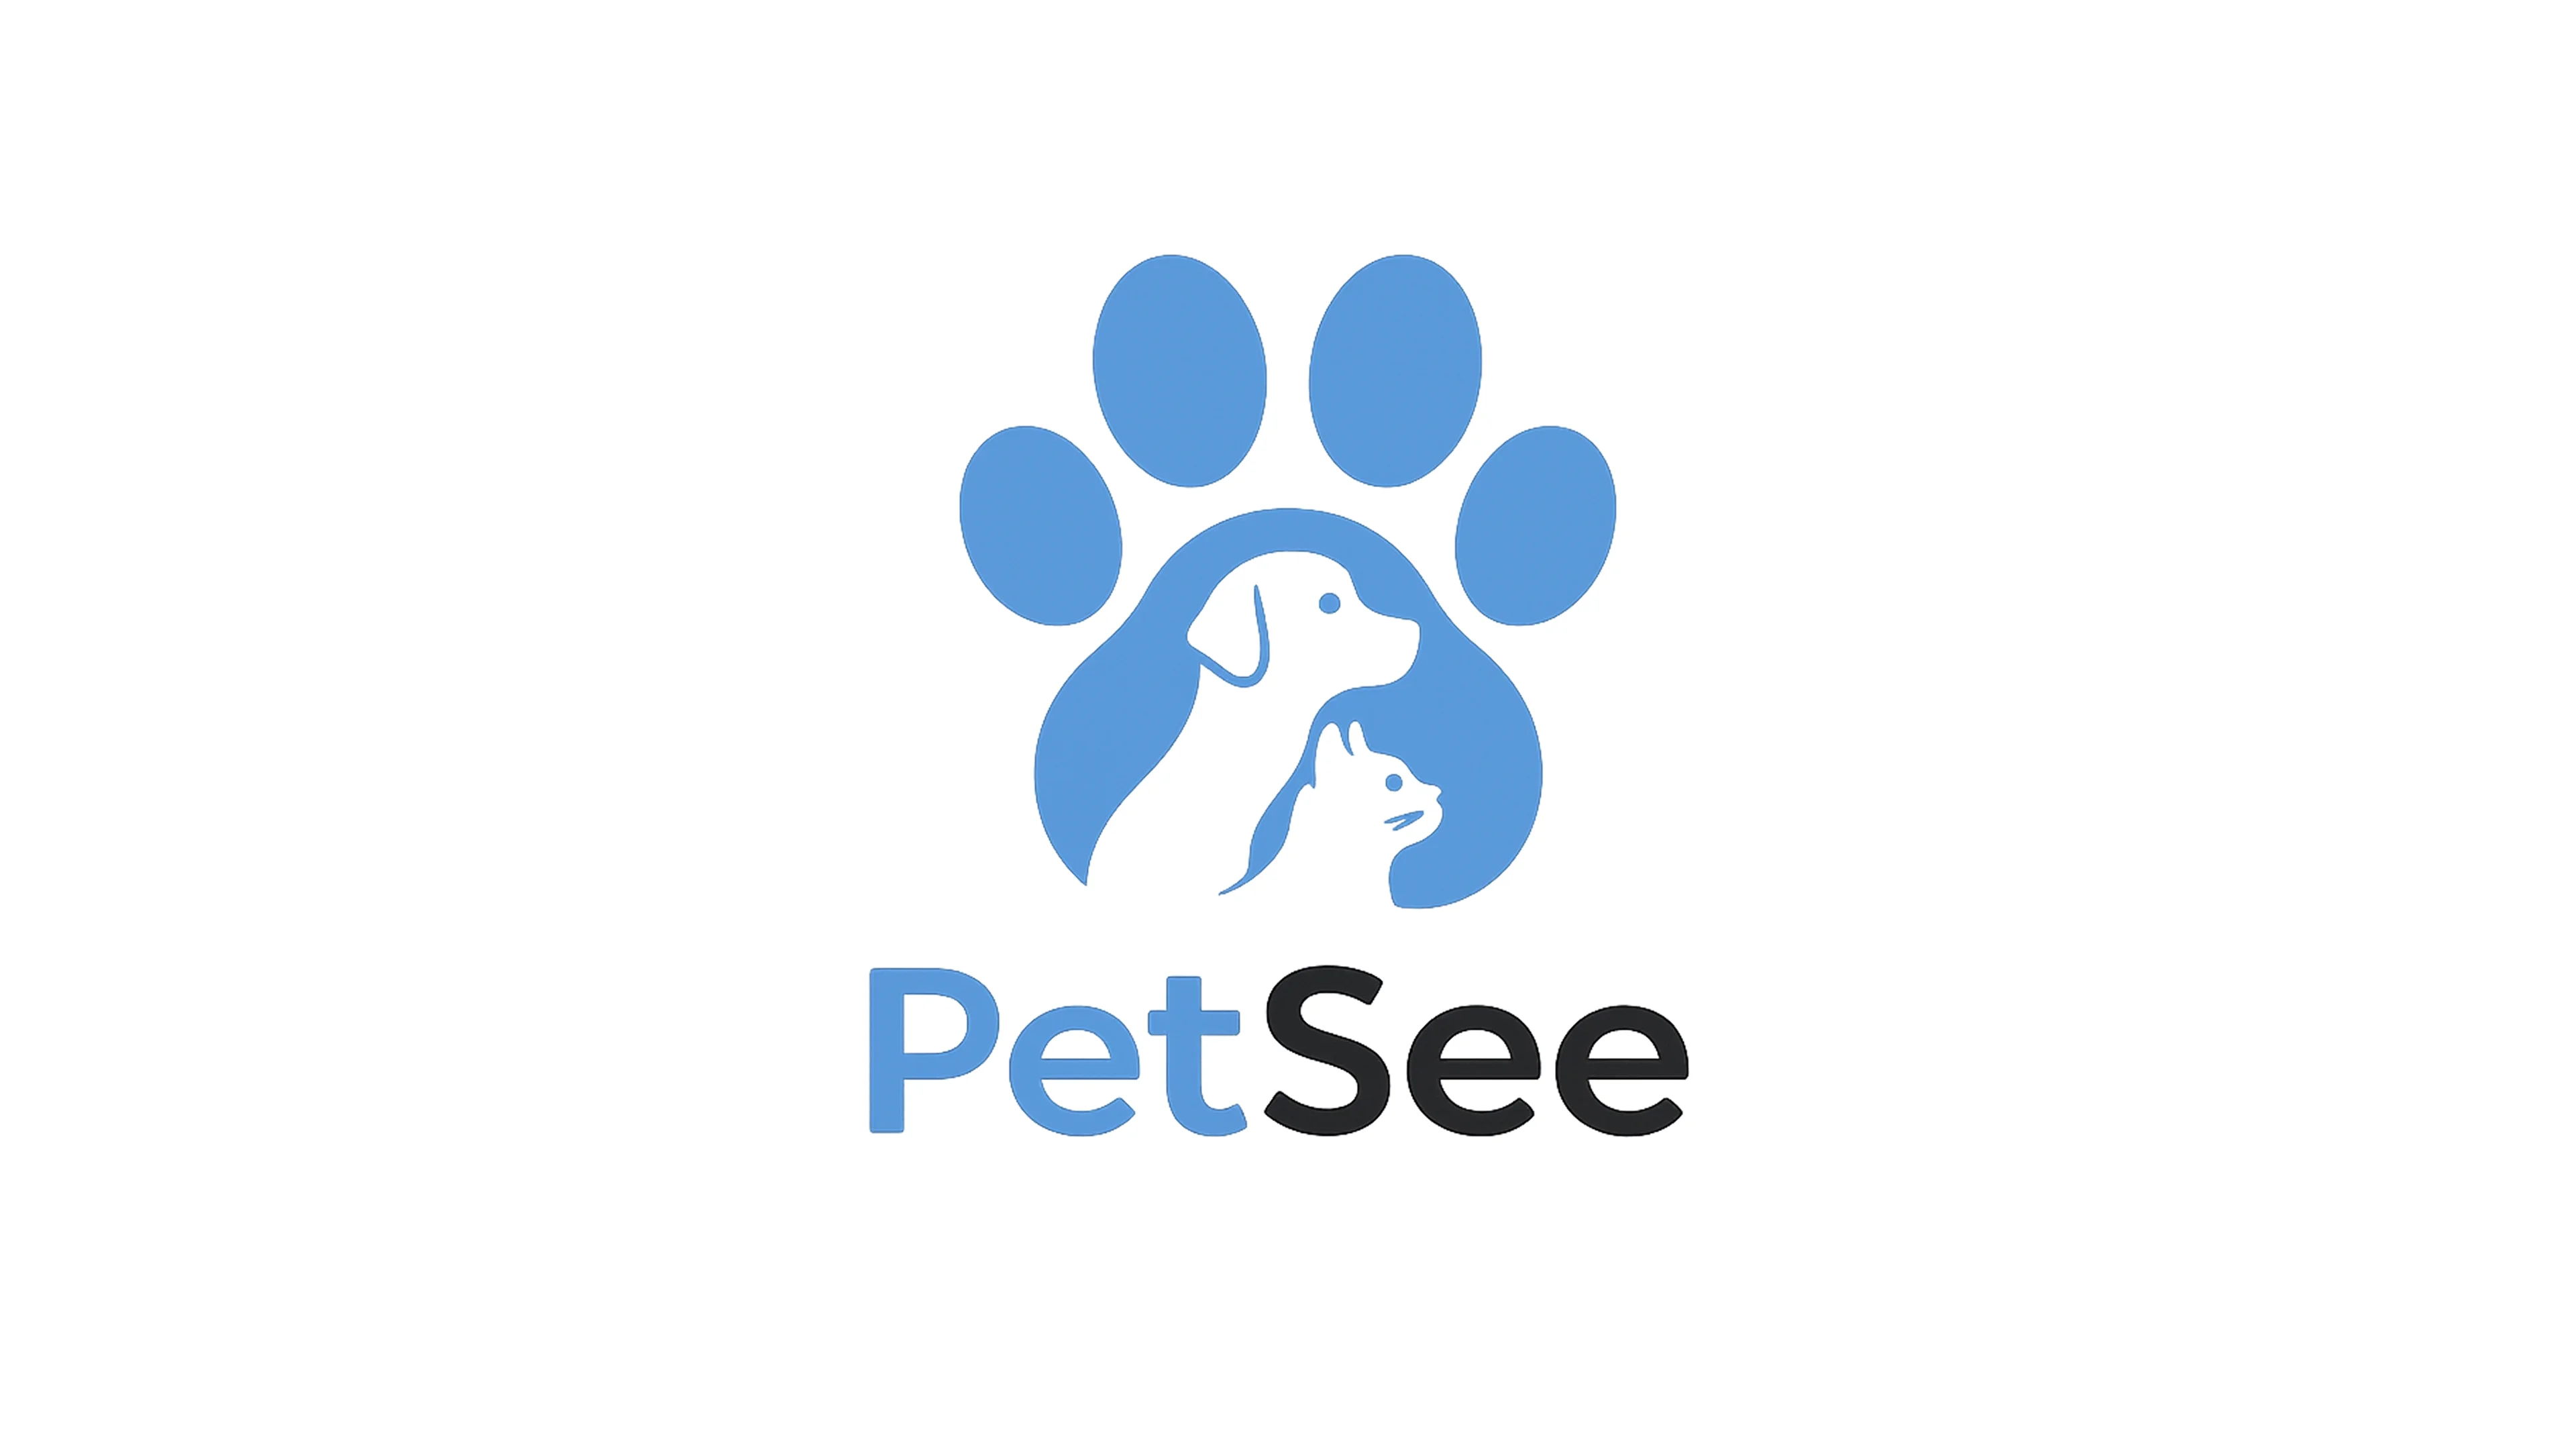
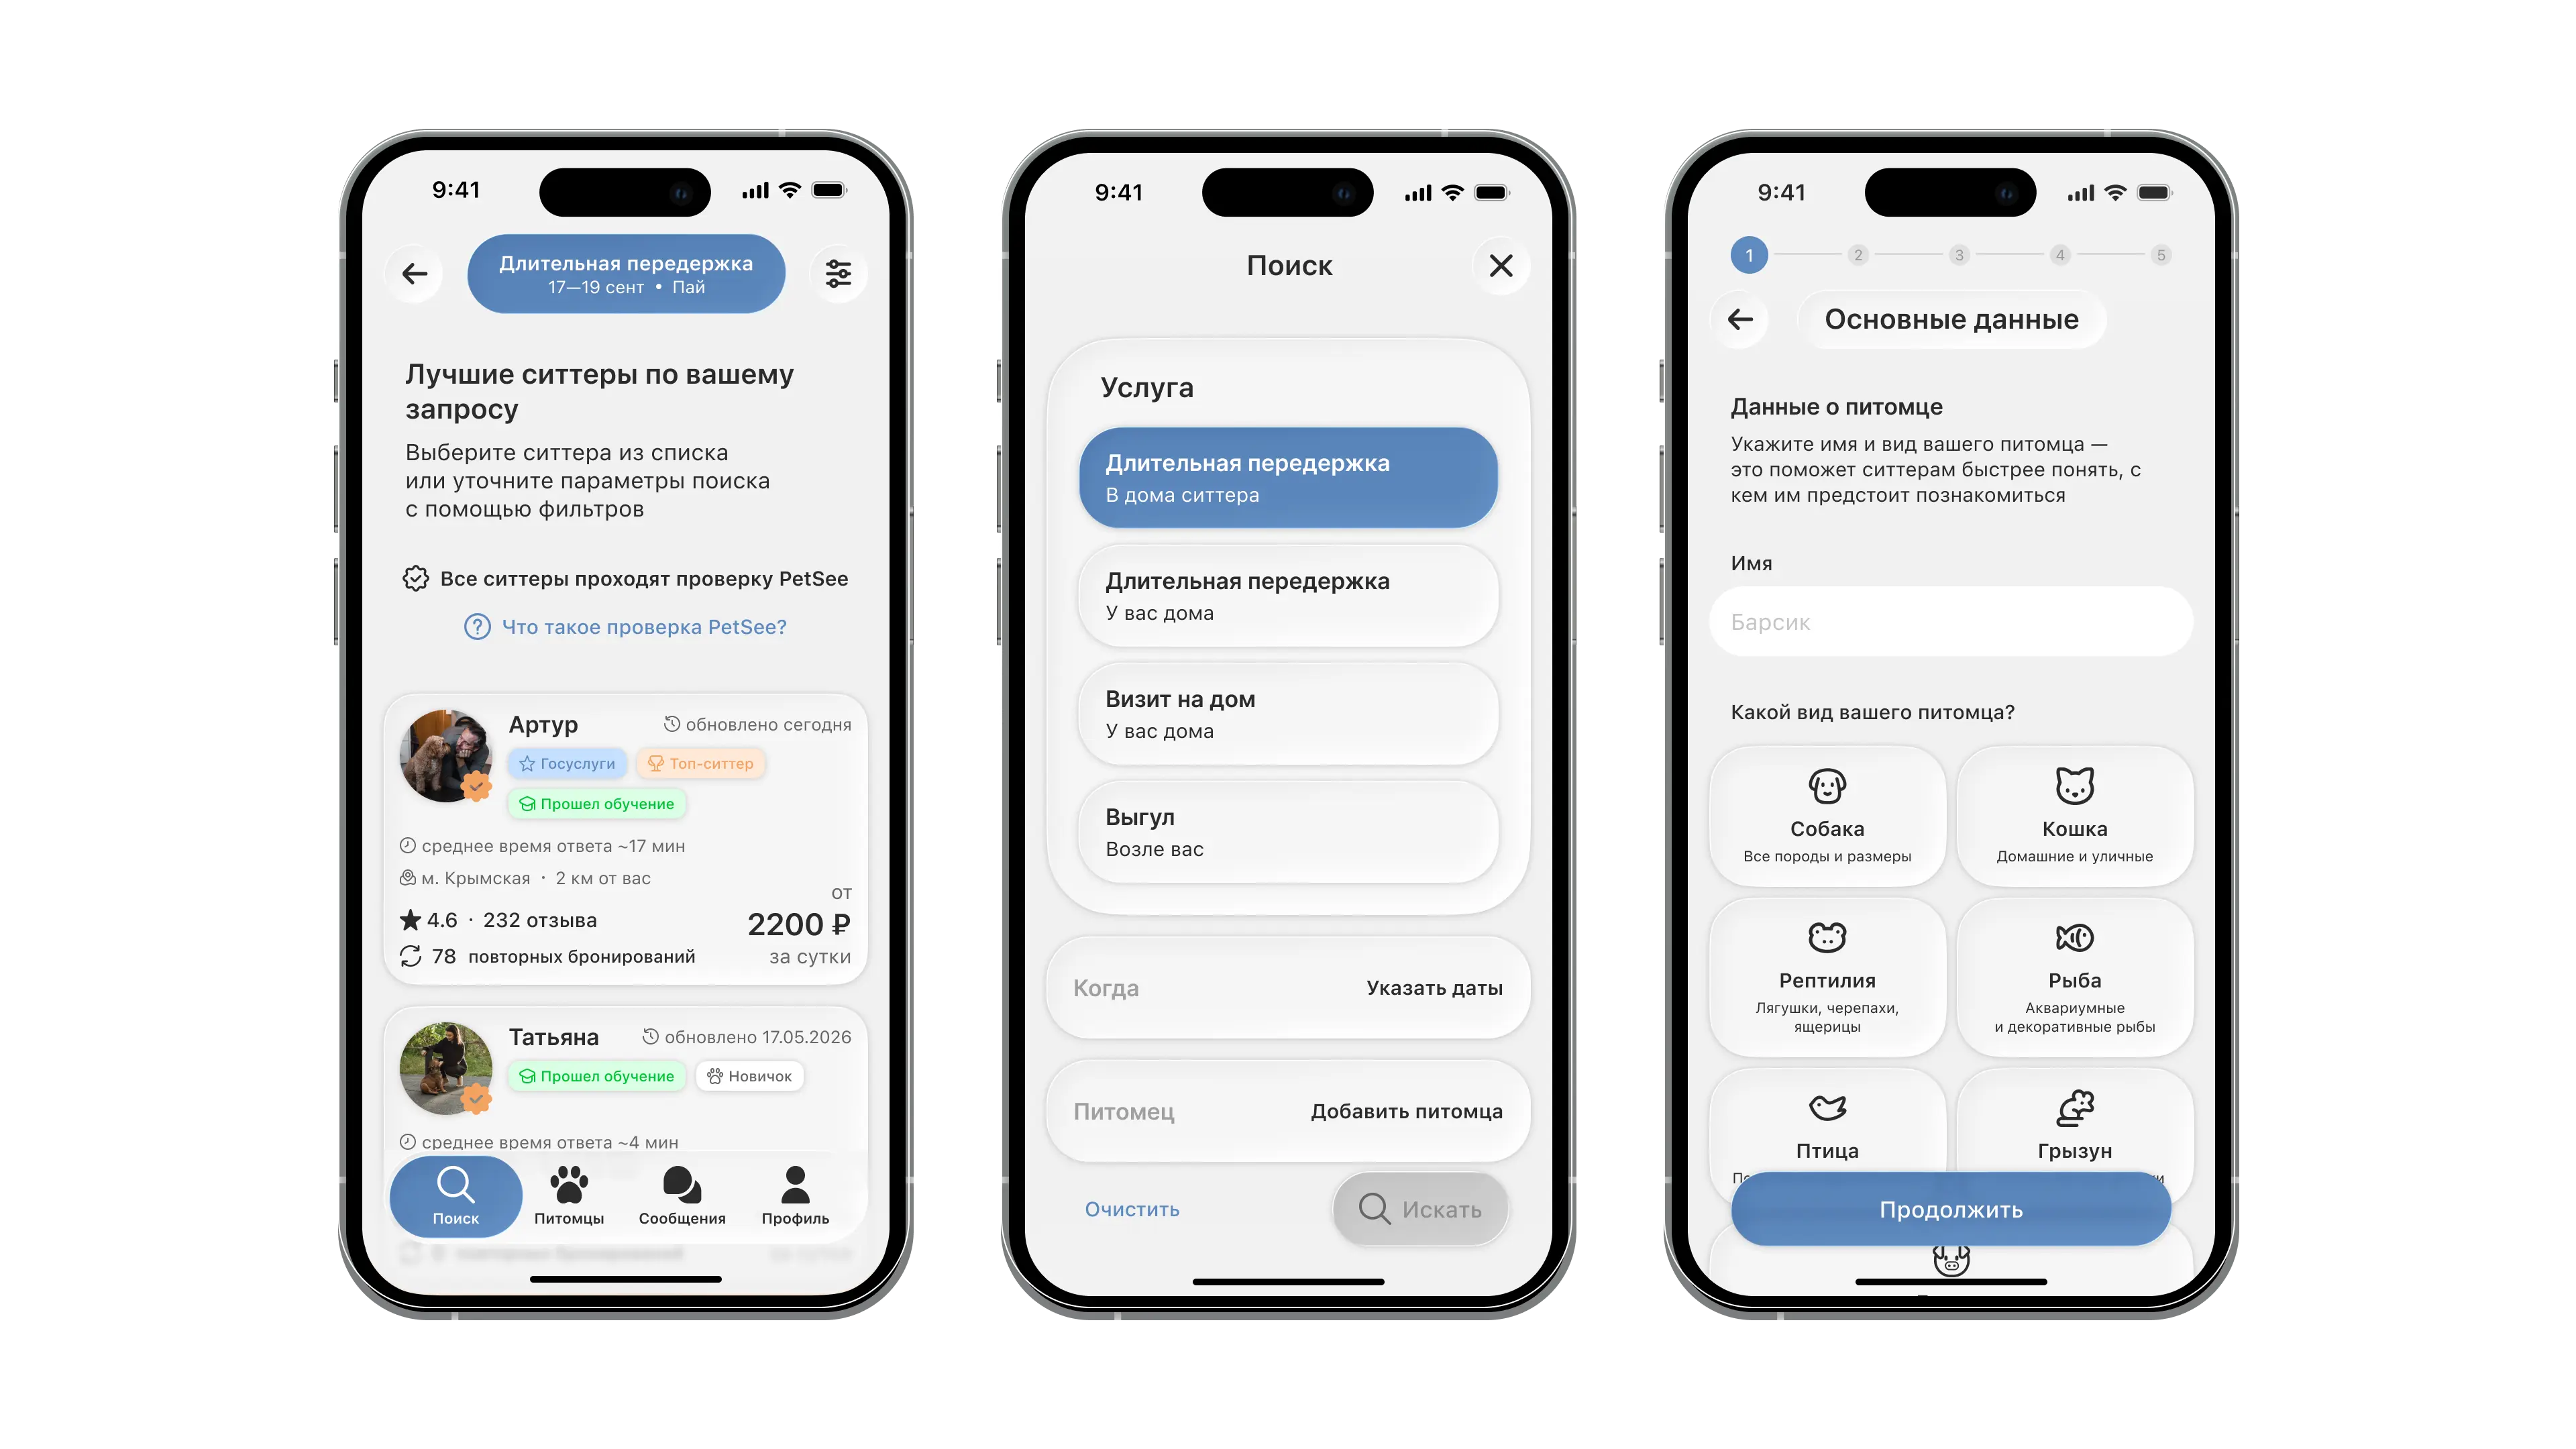
v38

diff --git a/index.html b/index.html
@@ -60,9 +60,13 @@
           <p>Три кейса из текущего места работы. Веду продукты от формирования задачи до разработки, балансирую между пользователем и бизнес-целями, параллельно выстроил процесс отдела.</p>
           <a href="./cases/op/index.html" class="btn-outline btn--primary-light">Смотреть кейс &rarr;</a>
         </div>
-        <a href="./cases/op/index.html" class="case-image" tabindex="-1" aria-hidden="true">
-          <img src="./images/adminpanelcover.webp" alt="" style="width:100%;height:100%;object-fit:cover;display:block;">
-        </a>
+        <div class="case-image">
+          <div class="before-after" style="height:100%;margin:0;border-radius:0;">
+            <div class="ba-before"><img src="./images/adminpaneldesigndecisionbefore2.2.webp" style="width:100%;height:100%;object-fit:cover;object-position:top center;display:block;"></div>
+            <div class="ba-after"><img src="./images/adminpaneldesigndecisionafter2.2.webp" style="width:100%;height:100%;object-fit:cover;object-position:top center;display:block;"></div>
+            <div class="ba-divider"><div class="ba-handle" aria-label="Перетащите для сравнения"><svg width="18" height="18" viewBox="0 0 18 18" fill="none" stroke-width="1.5" stroke-linecap="round" stroke-linejoin="round"><path d="M6 4L2 9L6 14" stroke="rgba(220,38,38,0.75)"/><path d="M12 4L16 9L12 14" stroke="rgba(22,163,74,0.75)"/></svg></div></div>
+          </div>
+        </div>
       </article>
 
       <article class="case">
@@ -74,8 +78,8 @@
           <p>Маркетплейс для временной передержки домашних животных. Соединяет владельцев питомцев с людьми, которые готовы за ними присмотреть.</p>
           <a href="./cases/petsee/index.html" class="btn-outline btn--primary-light">Смотреть кейс &rarr;</a>
         </div>
-        <a href="./cases/petsee/index.html" class="case-image" tabindex="-1" aria-hidden="true">
-          <img src="./images/maincover.webp" alt="" style="width:100%;height:100%;object-fit:cover;display:block;">
+        <a href="./cases/petsee/index.html" class="case-image" tabindex="-1" aria-hidden="true" style="background:none;border:none;aspect-ratio:unset;height:auto;">
+          <img src="./images/maincover.webp" alt="" style="width:100%;height:auto;display:block;">
         </a>
       </article>
 
@@ -88,8 +92,8 @@
           <p>Концептуальная фича для Яндекс Путешествий. Сервис хорошо помогает перед поездкой, но не встречает после. Travel Summary это персонализированный итог, который появляется по возвращении.</p>
           <a href="./cases/travel-summary/index.html" class="btn-outline btn--primary-light">Смотреть кейс &rarr;</a>
         </div>
-        <a href="./cases/travel-summary/index.html" class="case-image" tabindex="-1" aria-hidden="true">
-          <img src="./images/travelsummarycover.webp" alt="" style="width:100%;height:100%;object-fit:cover;display:block;">
+        <a href="./cases/travel-summary/index.html" class="case-image" tabindex="-1" aria-hidden="true" style="background:none;border:none;aspect-ratio:unset;height:auto;">
+          <img src="./images/travelsummarycover.webp" alt="" style="width:100%;height:auto;display:block;">
         </a>
       </article>
 
@@ -102,8 +106,8 @@
           <p>Исследовали информационную перегрузку в популярных мессенджерах в рамках магистерской диссертации. Спроектировали четыре функции и проверили их в немодерируемом тестировании: 52 сессии, success rate 78.8%.</p>
           <a href="./cases/messenger/index.html" class="btn-outline btn--primary-light">Смотреть кейс &rarr;</a>
         </div>
-        <a href="./cases/messenger/index.html" class="case-image" tabindex="-1" aria-hidden="true">
-          <img src="./images/messengercover.webp" alt="" style="width:100%;height:100%;object-fit:cover;display:block;">
+        <a href="./cases/messenger/index.html" class="case-image" tabindex="-1" aria-hidden="true" style="aspect-ratio:unset;height:auto;">
+          <img src="./images/messengerfeature1.3.webp" alt="" style="width:100%;height:auto;display:block;">
         </a>
       </article>
 
@@ -119,5 +123,34 @@
   <script src="https://cdnjs.cloudflare.com/ajax/libs/aos/2.3.4/aos.min.js"></script>
   <script>AOS.init({ duration: 600, easing: 'ease', once: true, offset: 0, startEvent: 'DOMContentLoaded' });</script>
   <script src="./scroll.js"></script>
+  <script>
+    (function () {
+      document.querySelectorAll('.before-after:not(.before-after--vertical)').forEach(function (ba) {
+        var after = ba.querySelector('.ba-after');
+        var divider = ba.querySelector('.ba-divider');
+        var dragging = false;
+        function setPos(pct) {
+          pct = Math.max(0, Math.min(100, pct));
+          after.style.clipPath = 'inset(0 0 0 ' + pct + '%)';
+          divider.style.left = pct + '%';
+        }
+        setPos(50);
+        ba.addEventListener('mousedown', function (e) { dragging = true; e.preventDefault(); });
+        document.addEventListener('mouseup', function () { dragging = false; });
+        document.addEventListener('mousemove', function (e) {
+          if (!dragging) return;
+          var rect = ba.getBoundingClientRect();
+          setPos((e.clientX - rect.left) / rect.width * 100);
+        });
+        ba.addEventListener('touchstart', function () { dragging = true; }, { passive: true });
+        ba.addEventListener('touchend', function () { dragging = false; }, { passive: true });
+        ba.addEventListener('touchmove', function (e) {
+          if (!dragging) return;
+          var rect = ba.getBoundingClientRect();
+          setPos((e.touches[0].clientX - rect.left) / rect.width * 100);
+        }, { passive: false });
+      });
+    })();
+  </script>
 </body>
 </html>

diff --git a/cases/op/index.html b/cases/op/index.html
@@ -41,8 +41,8 @@
           <p>Внутренний инструмент для отслеживания актуальности нормативной базы учебных продуктов. До него эксперты держали по десятку открытых вкладок в Консультант+ и на сайтах ведомств, а изменения отслеживали вручную.</p>
           <a href="./monitoring/index.html" class="btn-outline btn--primary-light">Смотреть кейс →</a>
         </div>
-        <a href="./monitoring/index.html" class="case-image" tabindex="-1" aria-hidden="true">
-          <img src="../../images/monitoringcover.webp" alt="" style="width:100%;height:100%;object-fit:cover;display:block;">
+        <a href="./monitoring/index.html" class="case-image" tabindex="-1" aria-hidden="true" style="aspect-ratio:unset;height:auto;">
+          <img src="../../images/monitoringdesigndecision1.1.webp" alt="" style="width:100%;height:auto;display:block;">
         </a>
       </article>
 
@@ -55,9 +55,13 @@
           <p>Системный редизайн легаси-панели. 10 разделов на 50–100+ страниц, 3 раздела уже в продакшне. Два типа пользователей с противоположными ожиданиями: опытные привыкли к легаси-паттернам, новые ждут современного интерфейса.</p>
           <a href="./admin/index.html" class="btn-outline btn--primary-light">Смотреть кейс →</a>
         </div>
-        <a href="./admin/index.html" class="case-image" tabindex="-1" aria-hidden="true">
-          <img src="../../images/adminpanelcover.webp" alt="" style="width:100%;height:100%;object-fit:cover;display:block;">
-        </a>
+        <div class="case-image">
+          <div class="before-after" style="height:100%;margin:0;border-radius:0;">
+            <div class="ba-before"><img src="../../images/adminpaneldesigndecisionbefore3.webp" style="width:100%;height:100%;object-fit:cover;object-position:top center;display:block;"></div>
+            <div class="ba-after"><img src="../../images/adminpaneldesigndecisionafter3.webp" style="width:100%;height:100%;object-fit:cover;object-position:top center;display:block;"></div>
+            <div class="ba-divider"><div class="ba-handle" aria-label="Перетащите для сравнения"><svg width="18" height="18" viewBox="0 0 18 18" fill="none" stroke-width="1.5" stroke-linecap="round" stroke-linejoin="round"><path d="M6 4L2 9L6 14" stroke="rgba(220,38,38,0.75)"/><path d="M12 4L16 9L12 14" stroke="rgba(22,163,74,0.75)"/></svg></div></div>
+          </div>
+        </div>
       </article>
 
       <article class="case">
@@ -69,8 +73,8 @@
           <p>Электронный документооборот внутри административной панели. Встроенный ЭДО убирает разрыв между внешними агрегаторами для подписания и продуктом: все данные, процесс подписания и протоколы внутри системы.</p>
           <a href="./edo/index.html" class="btn-outline btn--primary-light">Смотреть кейс →</a>
         </div>
-        <a href="./edo/index.html" class="case-image" tabindex="-1" aria-hidden="true">
-          <img src="../../images/adminpanelcover.webp" alt="" style="width:100%;height:100%;object-fit:cover;display:block;">
+        <a href="./edo/index.html" class="case-image" tabindex="-1" aria-hidden="true" style="aspect-ratio:unset;height:auto;">
+          <img src="../../images/edodesigndecison2.1.webp" alt="" style="width:100%;height:auto;display:block;">
         </a>
       </article>
 
@@ -85,5 +89,34 @@
   </footer>
 
   <script src="../../scroll.js"></script>
+  <script>
+    (function () {
+      document.querySelectorAll('.before-after:not(.before-after--vertical)').forEach(function (ba) {
+        var after = ba.querySelector('.ba-after');
+        var divider = ba.querySelector('.ba-divider');
+        var dragging = false;
+        function setPos(pct) {
+          pct = Math.max(0, Math.min(100, pct));
+          after.style.clipPath = 'inset(0 0 0 ' + pct + '%)';
+          divider.style.left = pct + '%';
+        }
+        setPos(50);
+        ba.addEventListener('mousedown', function (e) { dragging = true; e.preventDefault(); });
+        document.addEventListener('mouseup', function () { dragging = false; });
+        document.addEventListener('mousemove', function (e) {
+          if (!dragging) return;
+          var rect = ba.getBoundingClientRect();
+          setPos((e.clientX - rect.left) / rect.width * 100);
+        });
+        ba.addEventListener('touchstart', function () { dragging = true; }, { passive: true });
+        ba.addEventListener('touchend', function () { dragging = false; }, { passive: true });
+        ba.addEventListener('touchmove', function (e) {
+          if (!dragging) return;
+          var rect = ba.getBoundingClientRect();
+          setPos((e.touches[0].clientX - rect.left) / rect.width * 100);
+        }, { passive: false });
+      });
+    })();
+  </script>
 </body>
 </html>

diff --git a/style.css b/style.css
@@ -152,8 +152,9 @@ main {
 /* Case cards */
 .case {
   display: flex;
-  align-items: center;
-  gap: 2rem;
+  flex-direction: column;
+  align-items: stretch;
+  gap: 1.25rem;
   padding: 2.5rem 0;
   text-decoration: none;
   color: inherit;
@@ -204,9 +205,8 @@ main {
 
 /* Image placeholder */
 .case-image {
-  flex-shrink: 0;
-  width: 280px;
-  height: 158px;
+  width: 100%;
+  aspect-ratio: 16 / 9;
   background: #f3f3f3;
   border-radius: 6px;
   border: 1px solid #e8e8e8;
@@ -2894,14 +2894,7 @@ details[open] .accordion-chevron {
 /* Responsive */
 @media (max-width: 560px) {
   .case {
-    flex-direction: column;
-    gap: 1.25rem;
-  }
-
-  .case-image {
-    width: 100%;
-    height: 160px;
-    order: -1;
+    gap: 1rem;
   }
 
   footer {